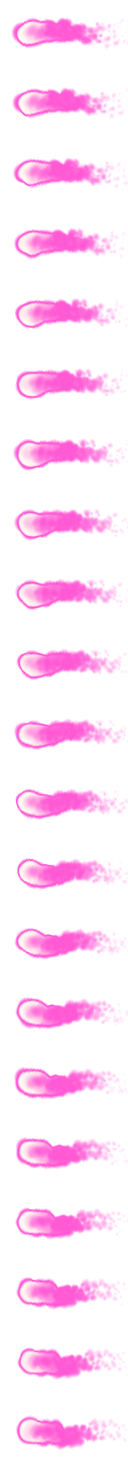
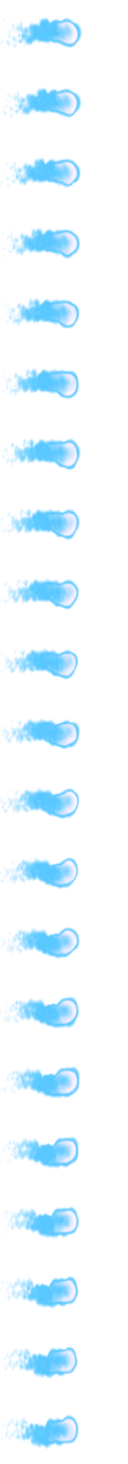
Fixed the alpha, channel on the rotation-surface so the transparency of the jetflame is correct.

diff --git a/src/player.py b/src/player.py
@@ -21,18 +21,18 @@ class Player(pygame.sprite.Sprite):
 		self.rect.centerx = self.pos.x
 		self.rect.centery = self.pos.y
 		# Load the image for the thruster-flame
-		self.thrusterimage = pygame.image.load("images/jetflame.png").convert_alpha()
+		self.thrusterimage = pygame.image.load("images/jetflame2.png").convert_alpha()
 		self.shieldimage = pygame.image.load("images/shieldsheet.png").convert_alpha()
 		self.thruster = []
 		self.shield = []
 		 # Calculating how many pixels to cut each time from the sheet.
-		self.thruster_width = 1920//30
+		self.thruster_width = 64
 		# Sprite number from the thruster list.
 		self.nr = 0
 		self.shieldnr = 0
 		# Cut from the spritesheet and add them to the thruster-list.
-		for i in range(30):
-			self.thruster.append(self.thrusterimage.subsurface((i*self.thruster_width, 0, self.thruster_width, self.thruster_width)))
+		for i in range(21):
+			self.thruster.append(self.thrusterimage.subsurface((0, i*self.thruster_width+i*6, self.thruster_width*2, self.thruster_width)))
 		for x in range(18):
 			self.shield.append(self.shieldimage.subsurface((x*133, 0, 133, 133)))
 		# Various attributes
@@ -174,14 +174,16 @@ class Player(pygame.sprite.Sprite):
 		surfsize = (sprite.thruster[0].get_width() + sprite.scale//2)*2
 		#get original center because new Rect center will change with image transformation.
 		oldCenter = sprite.rect.center
-		flamey_ship = pygame.Surface((surfsize, surfsize))
+		flamey_ship = pygame.Surface((surfsize, surfsize), pygame.SRCALPHA, 32)
 		ship_mask = flamey_ship.copy()
+		flamey_ship.convert_alpha()
 		#pygame.draw.rect(flamey_ship, (255,0,0), flamey_ship.get_rect(), 1)
 		if sprite.thrusting:
-			flamey_ship.blit(sprite.thruster[sprite.nr], (surfsize//2-sprite.scale//2-sprite.thruster[0].get_width(), 
+			sprite.thruster[sprite.nr].convert_alpha()
+			flamey_ship.blit(sprite.thruster[sprite.nr], (surfsize//2-sprite.scale//2-sprite.thruster[0].get_width()+60, 
 														  surfsize//2-sprite.thruster[0].get_height()//2))
 		sprite.nr += 1
-		sprite.nr %= 30
+		sprite.nr %= 21
 		flamey_ship.blit(sprite.origimage, (surfsize//2-sprite.scale//2,surfsize//2-sprite.scale//2))
 		ship_mask.blit(sprite.origimage, (surfsize//2-sprite.scale//2,surfsize//2-sprite.scale//2))
 		if sprite.invincible:
@@ -189,11 +191,12 @@ class Player(pygame.sprite.Sprite):
 			pass
 		sprite.shieldnr += 1
 		sprite.shieldnr %= 18
-		flamey_ship.set_colorkey((0,0,0))
-		ship_mask.set_colorkey((0,0,0))
 		#use pygame.transform.rotate(<image_to_rotate>, <turn_degrees>)
 		sprite.image = pygame.transform.rotate(flamey_ship, degrees)
 		sprite.mask = pygame.mask.from_surface(pygame.transform.rotate(ship_mask, degrees))
+
+		flamey_ship.set_colorkey((0,0,0))
+		ship_mask.set_colorkey((0,0,0))
 		#outline = sprite.mask.outline()
 		#pygame.draw.lines(sprite.image, (255, 255, 0), 1, outline)
 		#get new Rect
